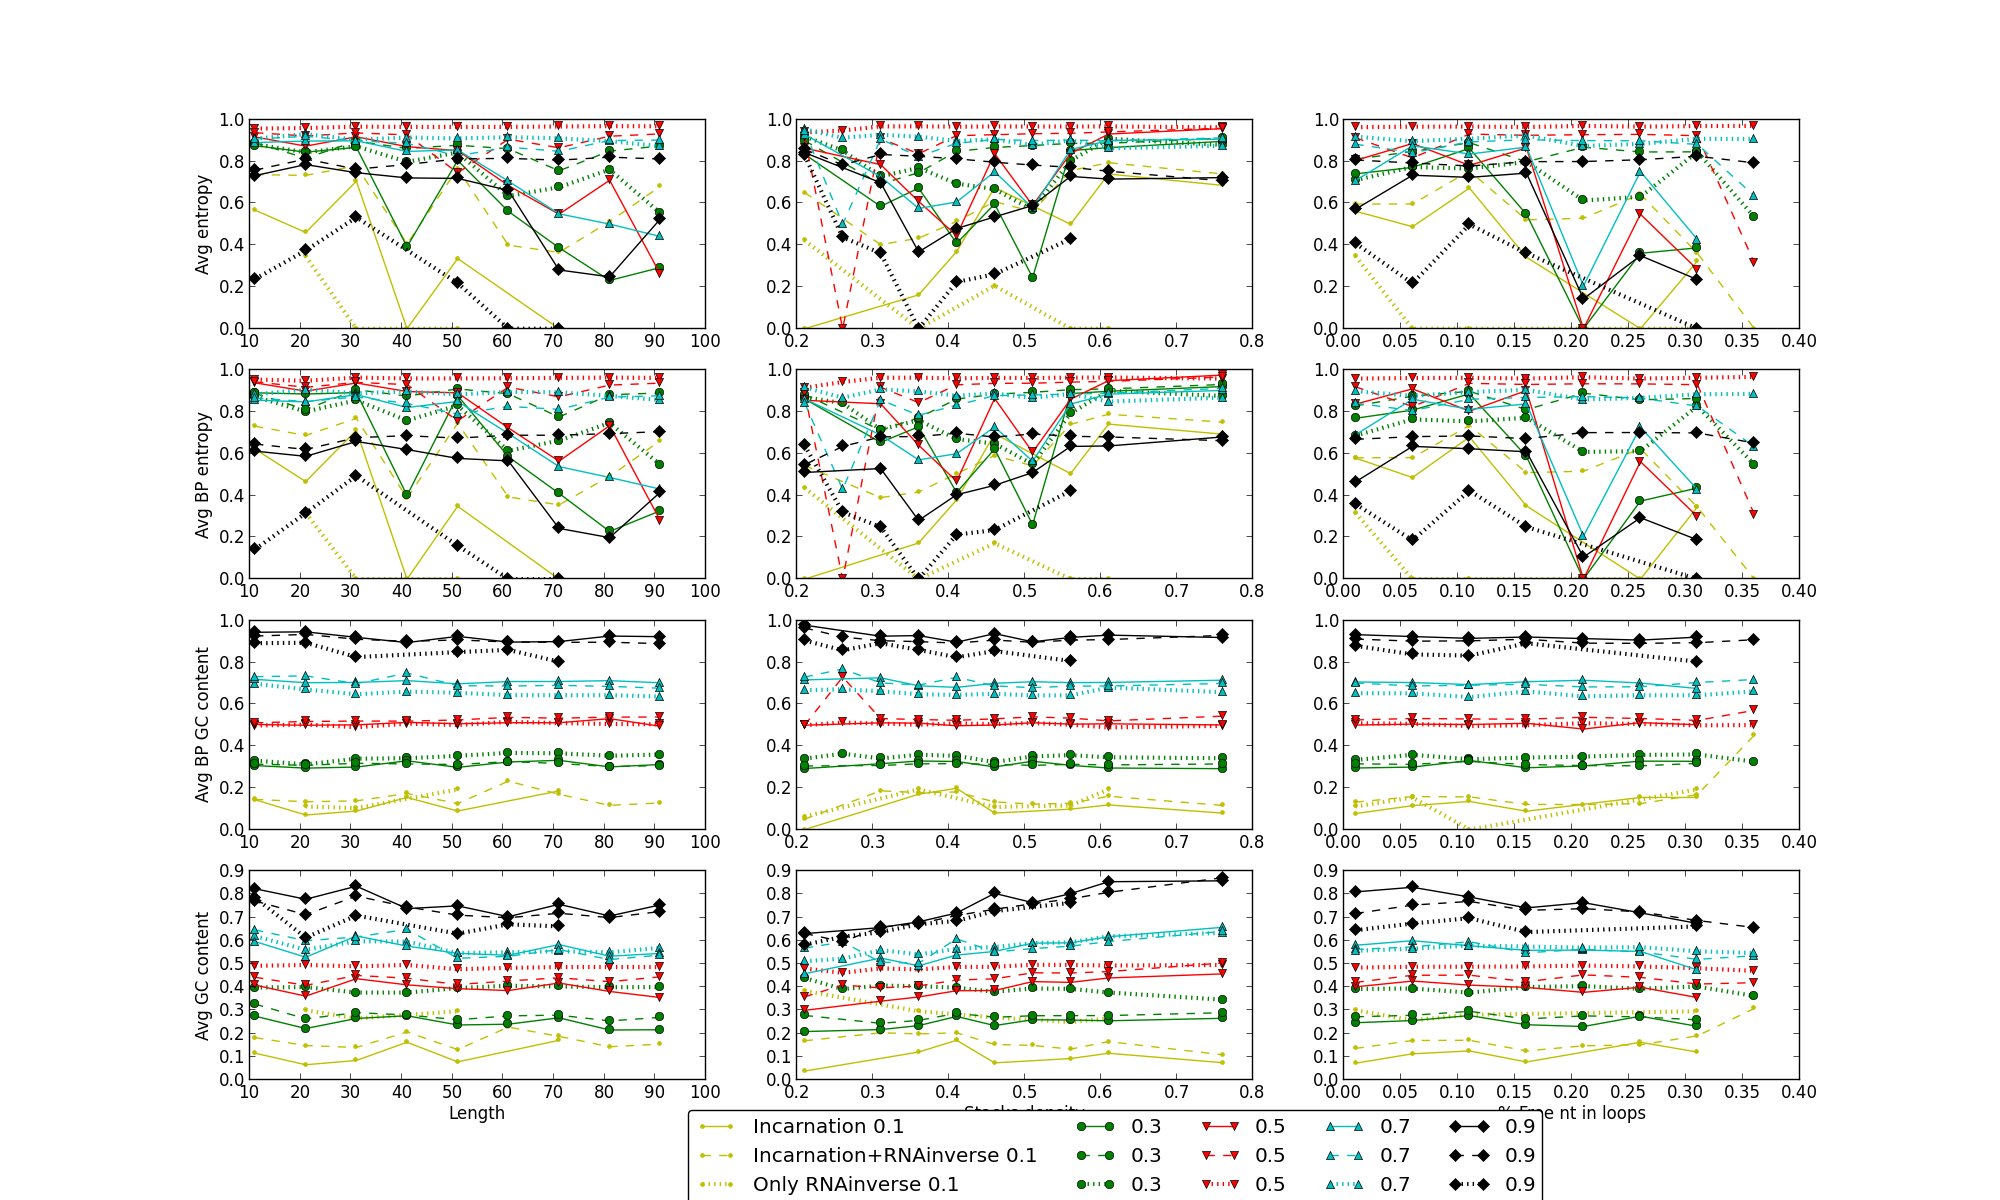
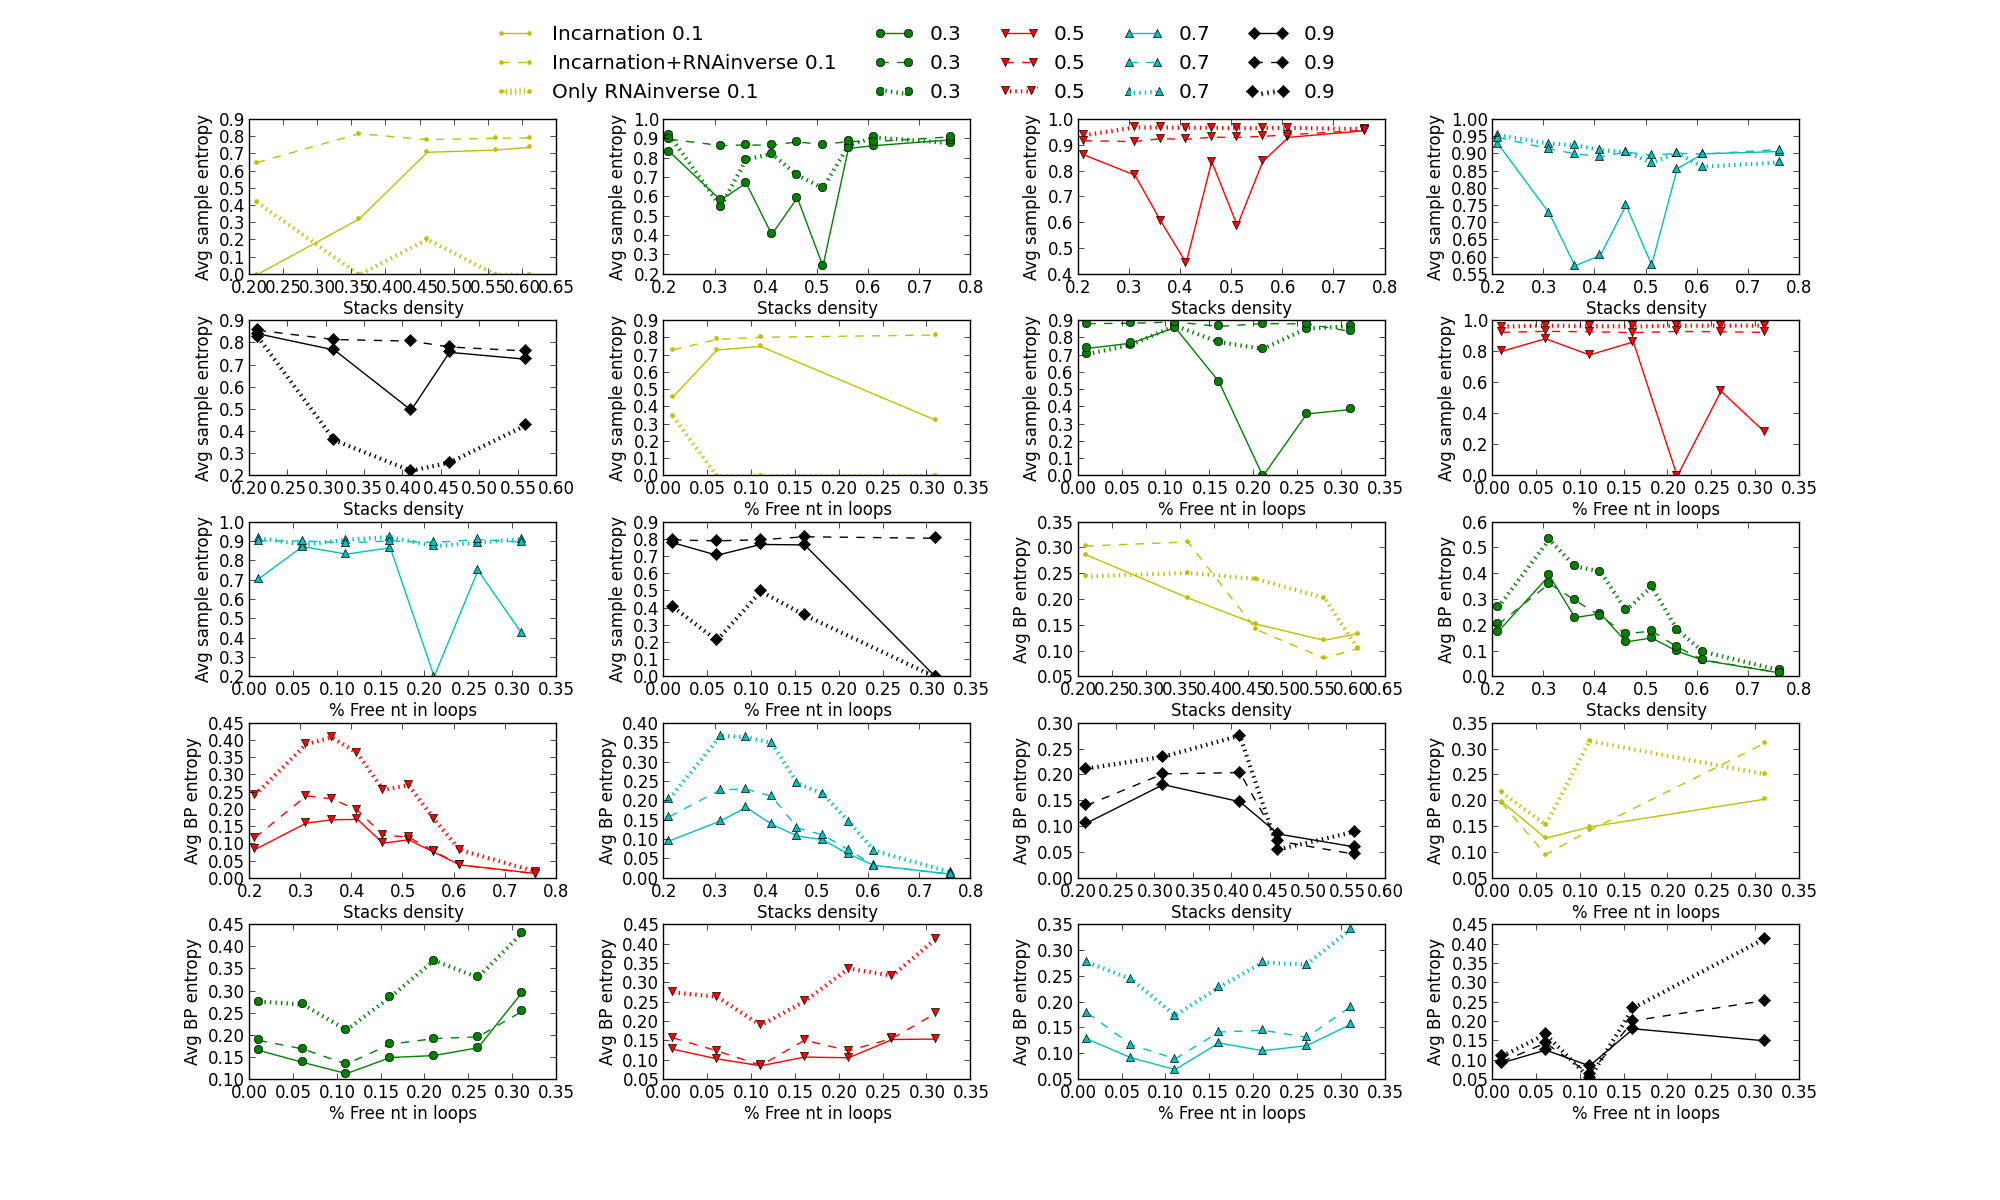
supp

Changed region(s): [[0.093, 0.0, 0.899, 1.0]]

diff --git a/ISMB/supplementary_ISMB.tex b/ISMB/supplementary_ISMB.tex
@@ -3,21 +3,13 @@
 \subsection{RNAinverse}
 Using the same dataset of $50$ structures, we generated $100$ samples
 per structure with \RNAinverse. They yield for most parameters
-a high entropy. Although, the $\texttt{C+G}$ content variation is minimal
-through all samples. We show the results when using only \RNAinverse, 
-only \texttt{Incarnation}, and both.
+a high entropy. We present for every different concentration of \texttt{C+G}
+the average sample entropy and the average base pairs entropy.
 
 
 \begin{figure}[ht!]
 	\centering
-	\includegraphics[scale=0.35]{Figures/RNAinverse_data_100.png}
-	\caption{Entropy and \texttt{C+G} content. The first
-		column is in function of the length, the second of the stacks
-		density and the last of the percentage of free nucleotides in loops.
-		The blue line represents the results and standard deviation when using 
-		only \RNAinverse with 100samples.  The dashed lines are the results
-		when using only \texttt{Incarnation} and the dashed line are results
-		of \texttt{Incarnation} post-processed by \RNAinverse.
-		}
+	\includegraphics[scale=0.4]{Figures/RNAinverse_data_100.png}
+	\caption{Entropy and \texttt{C+G} content.}
 	\label{fig:rnainverse}
 \end{figure}
